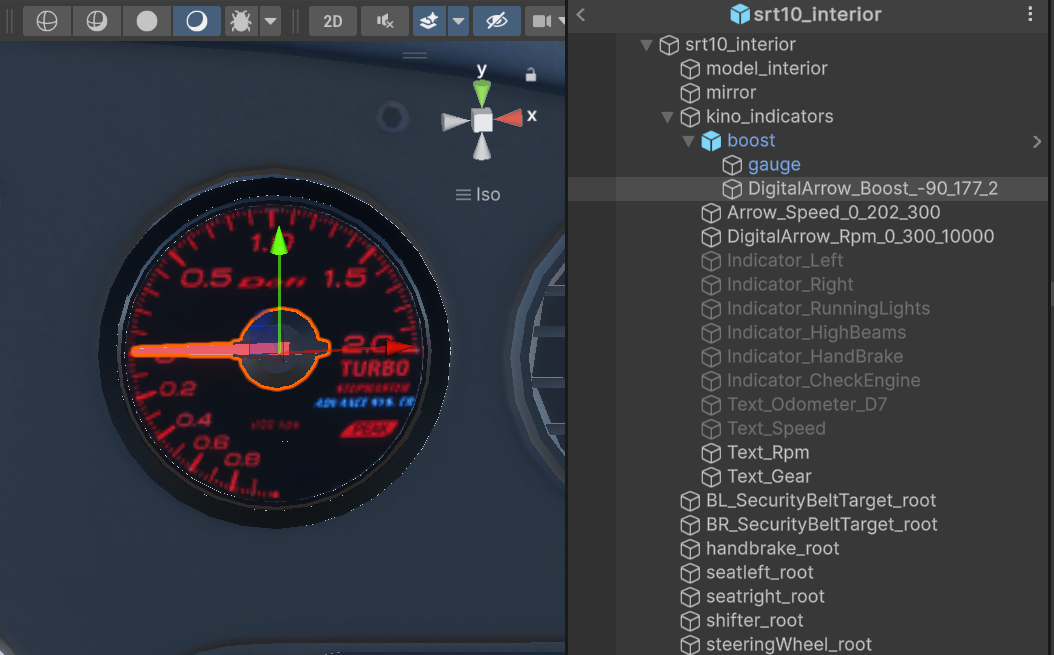
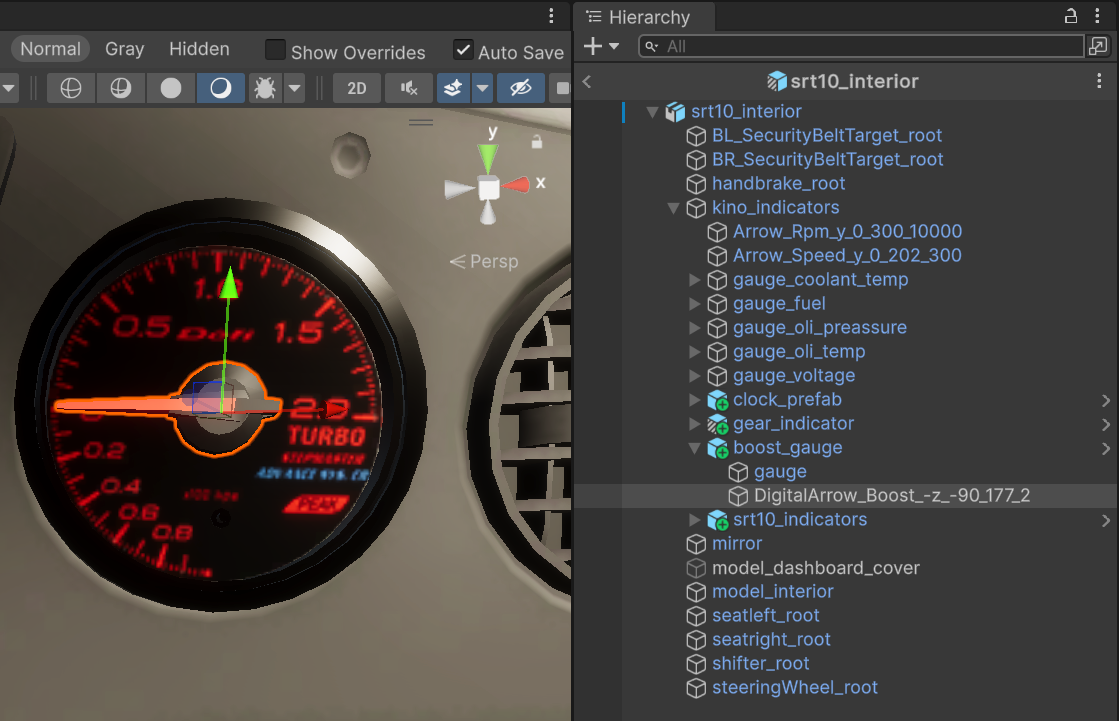
Updated custom interior documentation

diff --git a/ContentCreation/CustomCarParts/CustomInterior_RU.md b/ContentCreation/CustomCarParts/CustomInterior_RU.md
@@ -131,6 +131,7 @@
 * `Text_Boost`
 * `Text_Gear`
 * `Text_Odometer`
+* `Text_Clock`
 * `Canvas_Root`
 * `Canvas_ImageSpeed`
 * `Canvas_ImageRpm`
@@ -172,11 +173,11 @@
 > Обратите внимание, что стрелки на датчиках вращаются по оси `Z` в Unity (`Y` в Blender). Имейте это ввиду, когда будете создавать их.
 
 Описание значений для датчиков: 
-* `Arrow_*` и `DigitalArrow_*` должны содержать **3** дополнительных значения:
-  * 1: Угол при котором стрелка указывает на **минимальное** значение (на пример 0 оборотов)
-  * 2: Угол при котором стрелка указывает на **максимальное** значение
-  * 3: **Максимальное** значение на циферблате, на пример 300 км\ч, 10к оборотов и т.д.
-  * 4: **[Опционально]** Можно добавить аргумент `inv` для того что бы стрелка вращалась против часовой стрелки.
+* `Arrow_*` и `DigitalArrow_*` должны содержать **4** дополнительных значения:
+  * 1: Ось вращения (x, -x, y, -y, z, -z), ось по которой Kino будет вращать стрелку датчика
+  * 2: Угол при котором стрелка указывает на **минимальное** значение (на пример 0 оборотов)
+  * 3: Угол при котором стрелка указывает на **максимальное** значение
+  * 4: **Максимальное** значение на циферблате, на пример 300 км\ч, 10к оборотов и т.д.
 * `Canvas_Image***` должны содержать **один** дополнительный аргумент:
   * 1: **Максимальное** значение на циферблате
 * `Text_*` может **опционально** содержать один аргумент с указанием [формата текста](https://learn.microsoft.com/en-us/dotnet/standard/base-types/standard-numeric-format-strings)
@@ -187,13 +188,13 @@
 #### Создание датчиков Arrow и DigitalArrow
 
 Назовите стрелку датчика `Arrow` или `DigitalArrow` и укажите дополнительные аргументы.
-На пример: `Arrow_Speed_0_202_300` значит, что датчик будет показывать скорость с начальной точкой (0 км\ч) на **0** градусов и конечной точкой (**300** км\ч) на **202** градусах.
+На пример: `Arrow_Speed_y_0_202_300` значит, что датчик будет показывать скорость с начальной точкой (0 км\ч) на **0** градусов и конечной точкой (**300** км\ч) на **202** градусах.
 
 Стрелка может быть как 3D объектом с любым материалом, так и 2D объектом на `Canvas`, ограничений нет.
 
 ![parts_interior_arrow_speed](../Images/CarParts/Interior/parts_interior_arrow_speed.png)
 
-Пример электронного датчика буста: `DigitalArrow_Boost_-90_177_2` значит, что начальная точка находится на **-90** градусах, а конечная (**2** атм) на **177** градусах вращения.
+Пример электронного датчика буста: `DigitalArrow_Boost_-z_-90_177_2` значит, что начальная точка находится на **-90** градусах, а конечная (**2** атм) на **177** градусах вращения.
 
 ![parts_interior_digital_arrow_boost](../Images/CarParts/Interior/parts_interior_digital_arrow_boost.png)
 
@@ -210,7 +211,7 @@
 #### Создание датчиков Text
 
 Для создания цифровых датчиков используйте приставку `Text`, затем укажите какое значение он будет отображать. А так опционально можно задать формат отображения текста.
-Пример создания цифрового одометра: `Text_Odometer_D7`, **D7** означает что текст будет отображаться в формате `0000069`, то есть текст размером в 7 символов с нулями в начале.
+Пример создания цифрового одометра: `Text_Odometer_D7`, **D7** означает что текст будет отображаться в формате `0000123`, то есть текст размером в 7 символов с нулями в начале.
 
 ![parts_interior_text_odometer](../Images/CarParts/Interior/parts_interior_text_odometer.png)
 

diff --git a/ContentCreation/CustomCarParts/CustomInterior_EN.md b/ContentCreation/CustomCarParts/CustomInterior_EN.md
@@ -132,6 +132,7 @@ The following gauges and indicators are available for creation:
 * `Text_Boost`
 * `Text_Gear`
 * `Text_Odometer`
+* `Text_Clock`
 * `Canvas_Root`
 * `Canvas_ImageSpeed`
 * `Canvas_ImageRpm`
@@ -173,11 +174,11 @@ Some gauges **require** additional values to be included in the name. Values sho
 > Keep in mind that the needles on the gauge rotate along the `Z` axis in Unity (`Y` in Blender). Consider this when creating them.
 
 Description of values for gauges:
-* `Arrow_*` and `DigitalArrow_*` must include **3** additional values:
-    * 1: The angle at which the needle indicates the **minimum** value (e.g., 0 RPM).
-    * 2: The angle at which the needle indicates the **maximum** value.
-    * 3: The **maximum** value on the dial (e.g., 300 km/h, 10k RPM, etc.).
-    * 4: **[Optional]** Add the argument `inv` to make the needle rotate counterclockwise.
+* `Arrow_*` and `DigitalArrow_*` must include **4** additional values:
+    * 1: Axis of rotation (x, -x, y, -y, z, -z), the axis along which Kino will rotate the gauge needle.
+    * 2: The angle at which the needle indicates the **minimum** value (e.g., 0 RPM).
+    * 3: The angle at which the needle indicates the **maximum** value.
+    * 4: The **maximum** value on the dial (e.g., 300 km/h, 10k RPM, etc.).
 * `Canvas_Image***` must include **one** additional argument:
     * 1: The **maximum** value on the dial.
 * `Text_*` may **optionally** include one argument specifying the [text format](https://learn.microsoft.com/en-us/dotnet/standard/base-types/standard-numeric-format-strings).
@@ -188,13 +189,13 @@ Description of values for gauges:
 #### Creating Arrow and DigitalArrow gauges
 
 Name the gauge needle `Arrow` or `DigitalArrow` and include the additional arguments.
-For example: `Arrow_Speed_0_202_300` means that the gauge will show speed with the starting point (0 km/h) at **0** degrees and the endpoint (**300** km/h) at **202** degrees.
+For example: `Arrow_Speed_y_0_202_300` means that the gauge will show speed with the starting point (0 km/h) at **0** degrees and the endpoint (**300** km/h) at **202** degrees.
 
 The needle can be either a 3D object with any material or a 2D object on a `Canvas`; there are no restrictions.
 
 ![parts_interior_arrow_speed](../Images/CarParts/Interior/parts_interior_arrow_speed.png)
 
-Example of a digital boost gauge: `DigitalArrow_Boost_-90_177_2` means that the starting point is at **-90** degrees and the endpoint (**2** atm) is at **177** degrees of rotation.
+Example of a digital boost gauge: `DigitalArrow_Boost_-z_-90_177_2` means that the starting point is at **-90** degrees and the endpoint (**2** atm) is at **177** degrees of rotation.
 
 ![parts_interior_digital_arrow_boost](../Images/CarParts/Interior/parts_interior_digital_arrow_boost.png)
 
@@ -211,7 +212,7 @@ Please note that the naming convention for these gauges is similar to standard `
 #### Creating Text gauges
 
 To create digital gauges, use the prefix `Text`, then specify the value it will display. Optionally, you can define a text display format.
-Example of creating a digital odometer: `Text_Odometer_D7`. **D7** means the text will display in the format `0000069`, i.e., text of 7 characters with leading zeros.
+Example of creating a digital odometer: `Text_Odometer_D7`. **D7** means the text will display in the format `0000123`, i.e., text of 7 characters with leading zeros.
 
 ![parts_interior_text_odometer](../Images/CarParts/Interior/parts_interior_text_odometer.png)
 
